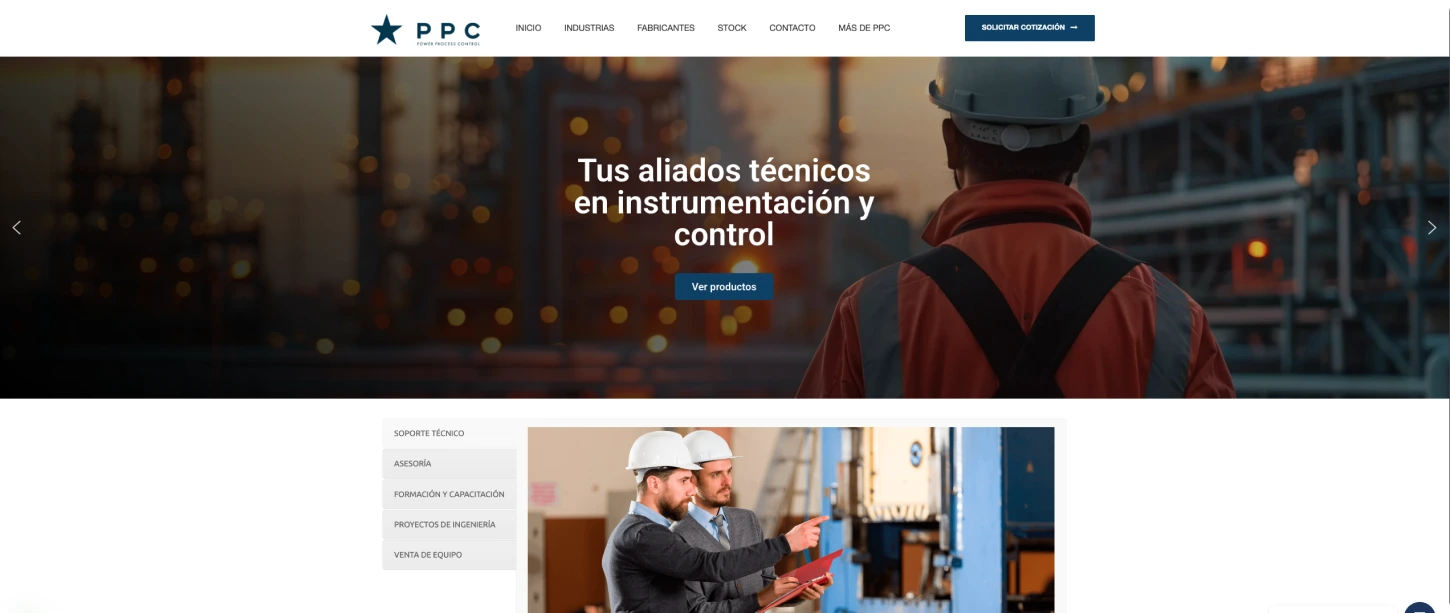
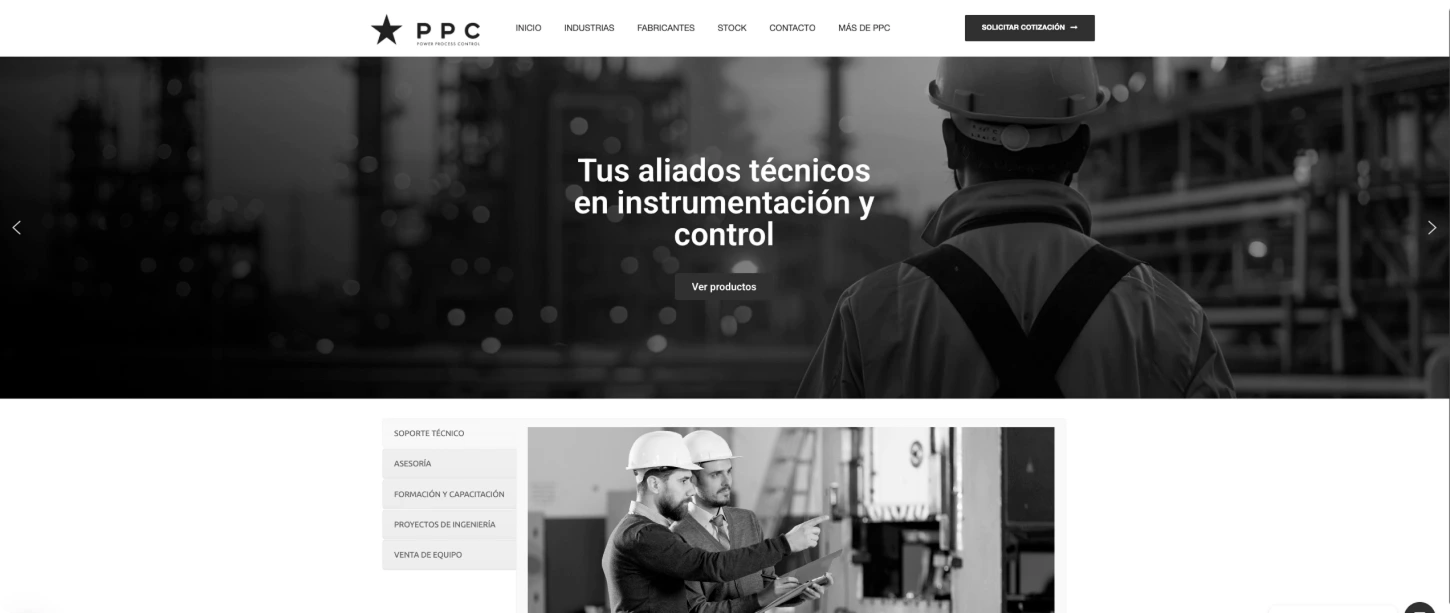
Fix problems

diff --git a/src/app/components/brandingTwo/BeforeAfterSlider.js b/src/app/components/brandingTwo/BeforeAfterSlider.js
@@ -28,7 +28,7 @@ export default function BeforeAfterSlider({
 
       const percentage = (x / rect.width) * 100;
       handle.style.left = `${percentage}%`;
-      
+
       const clipPath = `inset(0 ${100 - percentage}% 0 0)`;
       if (beforeDesktop) beforeDesktop.style.clipPath = clipPath;
       if (beforeMobile) beforeMobile.style.clipPath = clipPath;
@@ -68,7 +68,9 @@ export default function BeforeAfterSlider({
     document.addEventListener("pointercancel", onPointerUp);
 
     // Prevenir scroll en mobile mientras se arrastra
-    handle.addEventListener("touchstart", (e) => e.preventDefault(), { passive: false });
+    handle.addEventListener("touchstart", (e) => e.preventDefault(), {
+      passive: false,
+    });
 
     return () => {
       handle.removeEventListener("pointerdown", onPointerDown);
